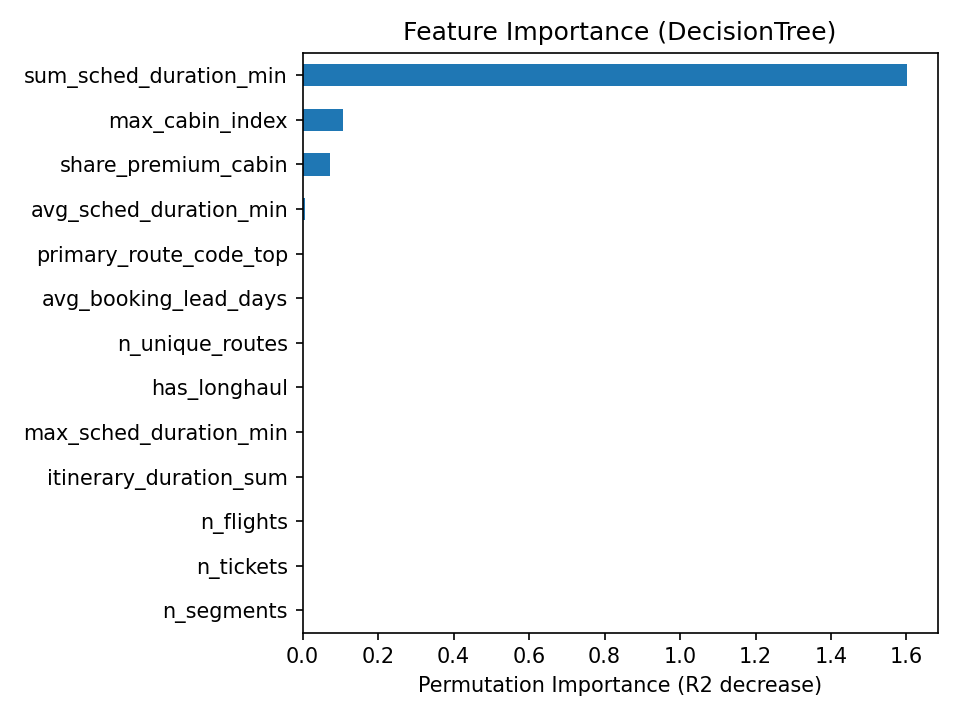
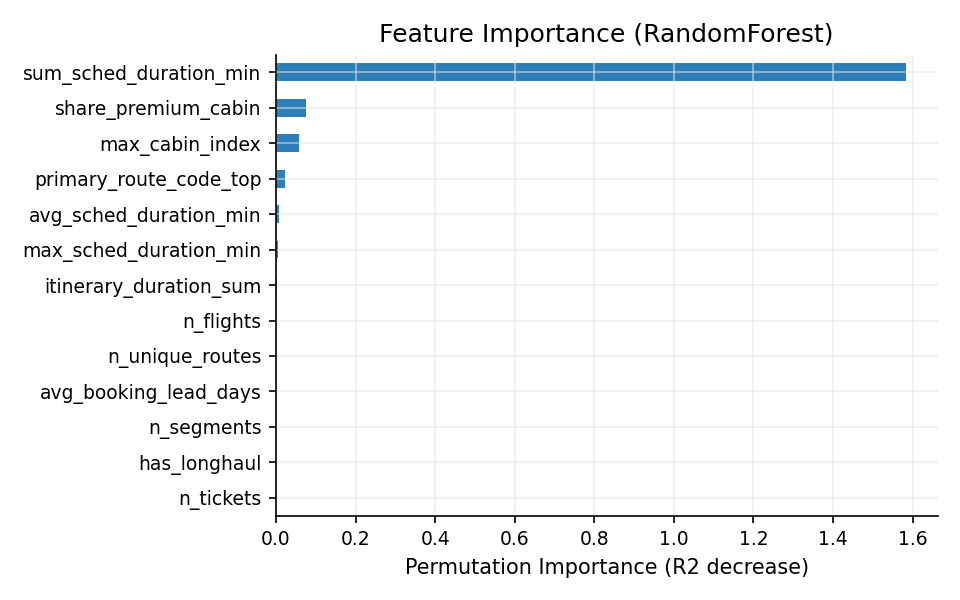
Regenerate booking outputs and extend metrics

Changed region(s): [[0.0312, 0.03, 0.9688, 0.96]]

diff --git a/pipelines/run_booking.py b/pipelines/run_booking.py
@@ -25,6 +25,7 @@ from airline_revenue_analytics.modeling.train import (
     make_preprocess,
     linear_pipeline,
     tree_pipeline,
+    forest_pipeline,
 )
 from airline_revenue_analytics.modeling.eval import evaluate
 from airline_revenue_analytics.viz.charts import apply_style, PLOT_COLORS
@@ -42,6 +43,22 @@ def _ensure_tables(tables: dict):
 
 def _has_pyarrow() -> bool:
     return importlib.util.find_spec("pyarrow") is not None
+
+
+def _amount_metrics(y_true_log: pd.Series, y_pred_log: pd.Series) -> dict[str, float]:
+    """Compute approximate amount-scale errors from log targets. (基于 log 的近似金额尺度误差)"""
+    with np.errstate(over="ignore", invalid="ignore"):
+        y_true = np.exp(np.asarray(y_true_log))
+        y_pred = np.exp(np.asarray(y_pred_log))
+    mask = np.isfinite(y_true) & np.isfinite(y_pred) & (y_true > 0)
+    if not np.any(mask):
+        return {"MAE_amount": np.nan, "RMSE_amount": np.nan, "MAPE_amount": np.nan}
+    y_true = y_true[mask]
+    y_pred = y_pred[mask]
+    mae = float(np.mean(np.abs(y_true - y_pred)))
+    rmse = float(np.sqrt(np.mean((y_true - y_pred) ** 2)))
+    mape = float(np.mean(np.abs((y_true - y_pred) / y_true)) * 100.0)
+    return {"MAE_amount": mae, "RMSE_amount": rmse, "MAPE_amount": mape}
 
 
 def main(write_parquet: bool = True):
@@ -177,14 +194,17 @@ def main(write_parquet: bool = True):
     models = {
         "LinearRegression": linear_pipeline(pre),
         "DecisionTree": tree_pipeline(pre),
+        "RandomForest": forest_pipeline(pre),
     }
 
     rows = []
     fitted = {}
     for name, model in models.items():
         model.fit(X_train, y_train)
-        metrics = evaluate(model, X_test, y_test)
-        rows.append({"model": name, **metrics})
+        y_pred = model.predict(X_test)
+        metrics = evaluate(model, X_test, y_test, y_pred=y_pred)
+        amount_metrics = _amount_metrics(y_test, y_pred)
+        rows.append({"model": name, **metrics, **amount_metrics})
         fitted[name] = model
 
     metrics_df = pd.DataFrame(rows).sort_values(
@@ -237,10 +257,14 @@ def main(write_parquet: bool = True):
             model_r = linear_pipeline(pre_r)
         elif best_name == "DecisionTree":
             model_r = tree_pipeline(pre_r)
+        elif best_name == "RandomForest":
+            model_r = forest_pipeline(pre_r)
         else:
             model_r = linear_pipeline(pre_r)
         model_r.fit(X_train_r, y_train_r)
-        metrics_r = evaluate(model_r, X_test_r, y_test_r)
+        y_pred_r = model_r.predict(X_test_r)
+        metrics_r = evaluate(model_r, X_test_r, y_test_r, y_pred=y_pred_r)
+        amount_metrics_r = _amount_metrics(y_test_r, y_pred_r)
         robust_rows.append(
             {
                 "split": "route_holdout",
@@ -248,6 +272,9 @@ def main(write_parquet: bool = True):
                 "R2": metrics_r["R2"],
                 "RMSE": metrics_r["RMSE"],
                 "MAE": metrics_r["MAE"],
+                "RMSE_amount": amount_metrics_r["RMSE_amount"],
+                "MAE_amount": amount_metrics_r["MAE_amount"],
+                "MAPE_amount": amount_metrics_r["MAPE_amount"],
                 "target": "log_total_amount",
                 "scale": "log",
                 "test_routes": len(test_routes),

diff --git a/src/airline_revenue_analytics/modeling/train.py b/src/airline_revenue_analytics/modeling/train.py
@@ -10,6 +10,7 @@ from sklearn.pipeline import Pipeline
 from sklearn.impute import SimpleImputer
 from sklearn.linear_model import LinearRegression
 from sklearn.tree import DecisionTreeRegressor
+from sklearn.ensemble import RandomForestRegressor
 
 
 def split_xy(df: pd.DataFrame, y_col: str, test_size: float = 0.3, seed: int = 42):
@@ -64,3 +65,16 @@ def tree_pipeline(pre: ColumnTransformer, **params) -> Pipeline:
     """Decision tree pipeline with conservative defaults. (决策树管线，保守默认参数)"""
     params = {"random_state": 42, "max_depth": 6, "min_samples_leaf": 50, **params}
     return Pipeline([("pre", pre), ("model", DecisionTreeRegressor(**params))])
+
+
+def forest_pipeline(pre: ColumnTransformer, **params) -> Pipeline:
+    """Random forest pipeline with conservative defaults. (随机森林管线，保守默认参数)"""
+    params = {
+        "random_state": 42,
+        "n_estimators": 200,
+        "max_depth": 12,
+        "min_samples_leaf": 20,
+        "n_jobs": -1,
+        **params,
+    }
+    return Pipeline([("pre", pre), ("model", RandomForestRegressor(**params))])

diff --git a/src/airline_revenue_analytics/modeling/eval.py b/src/airline_revenue_analytics/modeling/eval.py
@@ -7,9 +7,15 @@ from sklearn.metrics import r2_score, mean_squared_error, mean_absolute_error
 from sklearn.pipeline import Pipeline
 
 
-def evaluate(model: Pipeline, X_test: pd.DataFrame, y_test: pd.Series) -> Dict[str, float]:
+def evaluate(
+    model: Pipeline,
+    X_test: pd.DataFrame,
+    y_test: pd.Series,
+    y_pred: pd.Series | None = None,
+) -> Dict[str, float]:
     """Evaluate model performance with R2/RMSE/MAE. (使用 R2/RMSE/MAE 评估模型表现)"""
-    y_pred = model.predict(X_test)
+    if y_pred is None:
+        y_pred = model.predict(X_test)
     mse = mean_squared_error(y_test, y_pred)
     return {
         "R2": float(r2_score(y_test, y_pred)),
